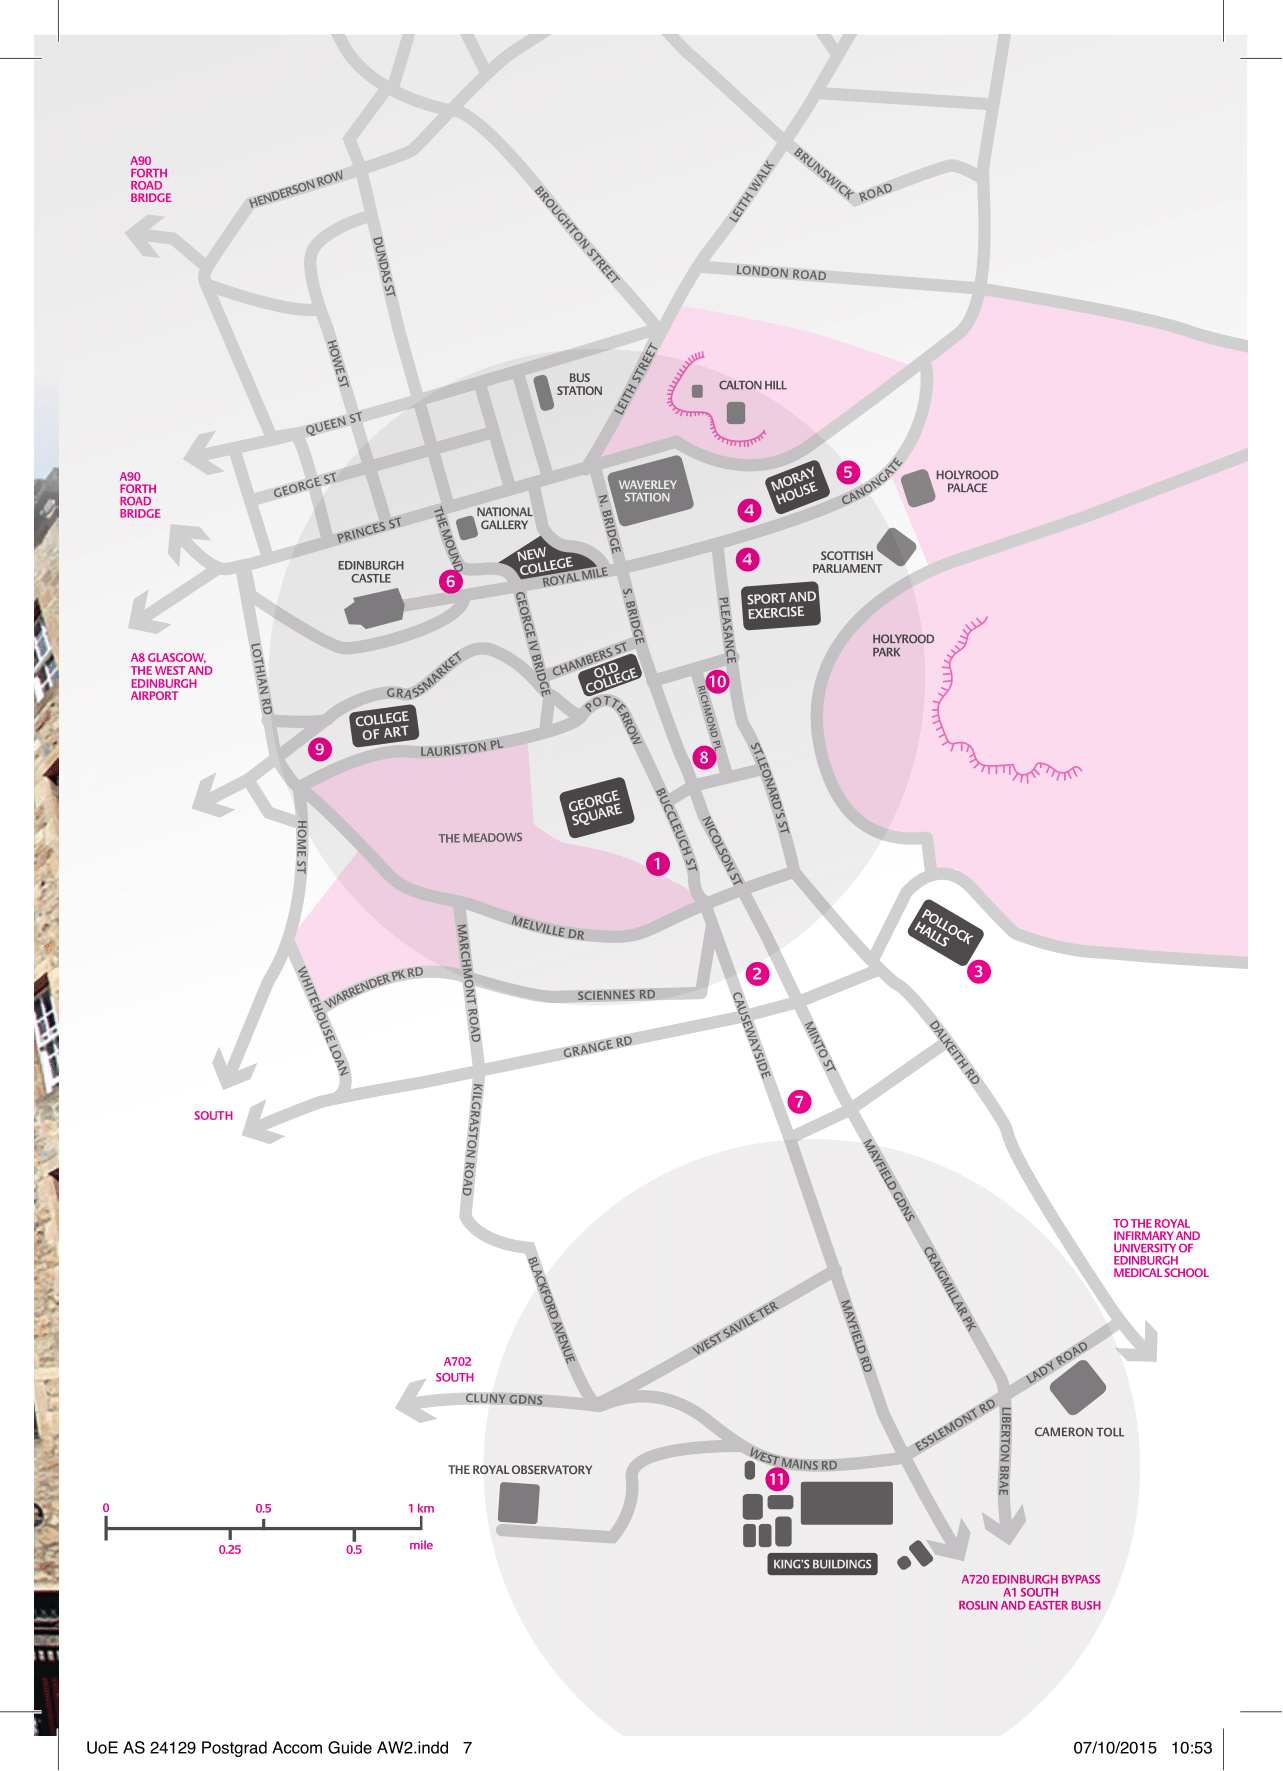
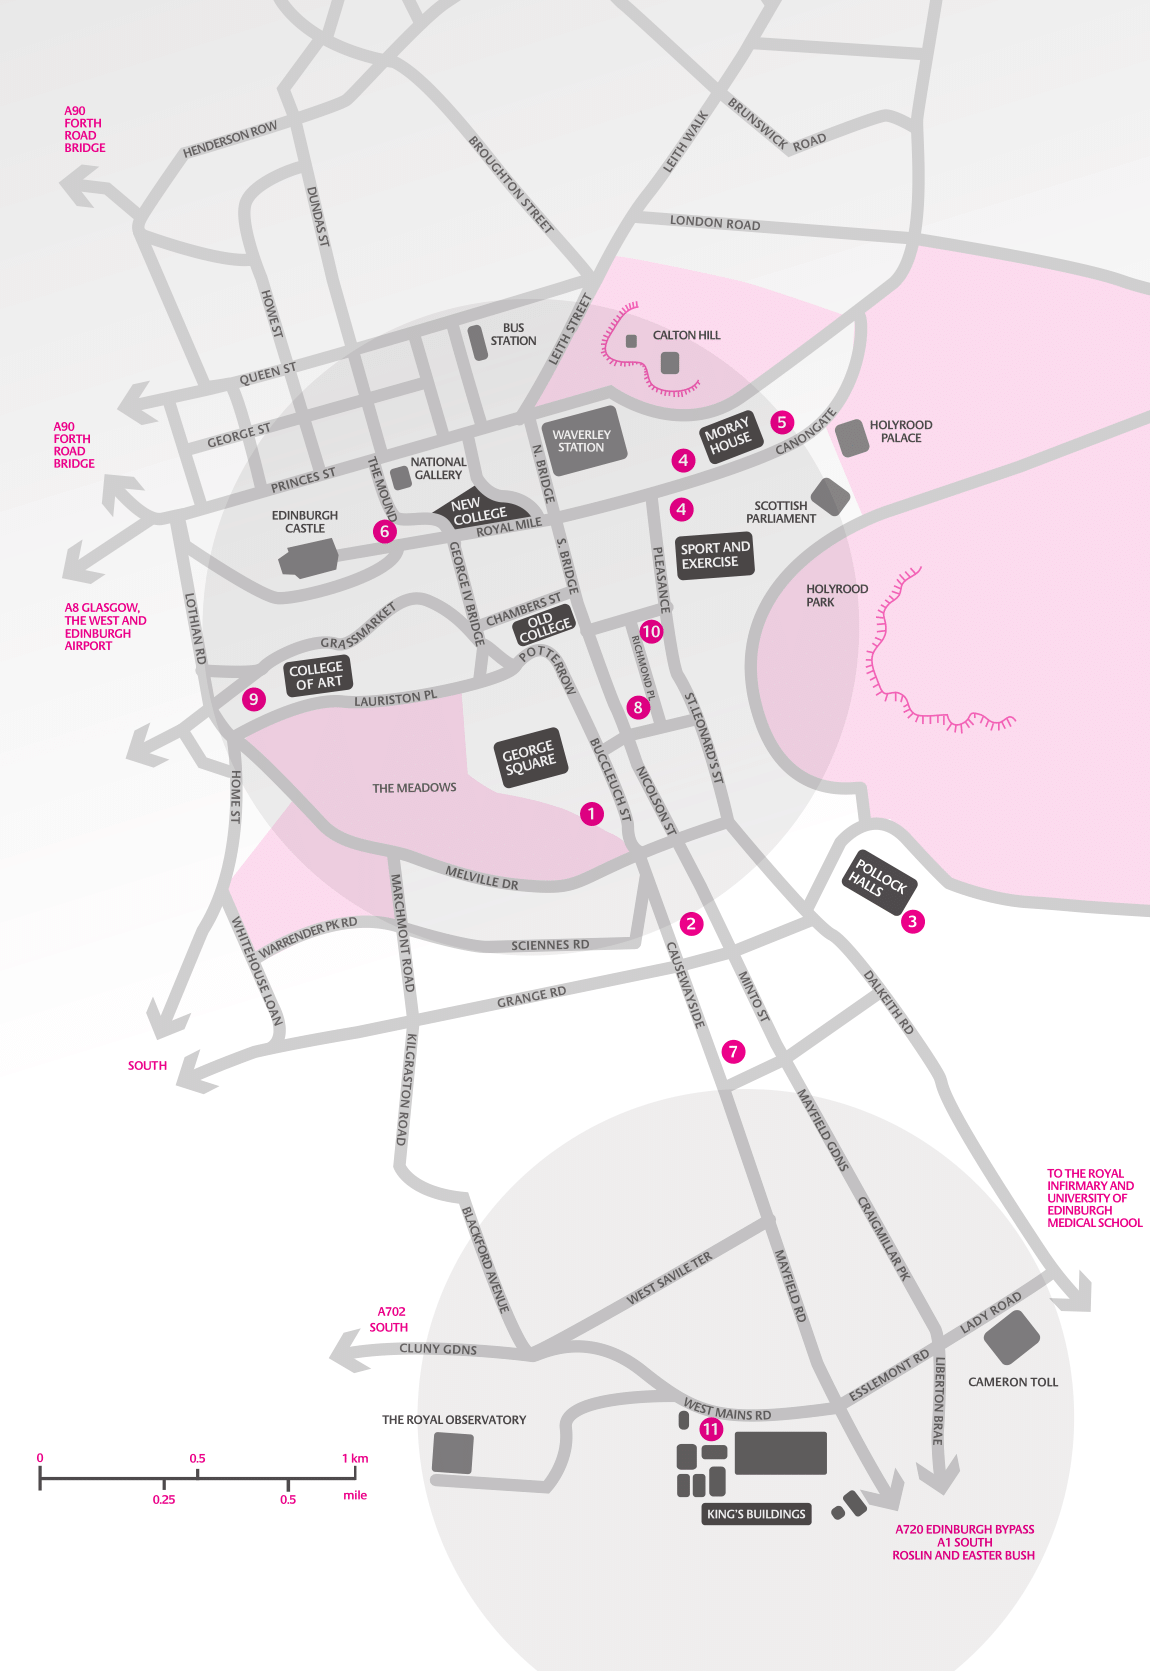
Continue implementation University Halls

diff --git a/index.html b/index.html
@@ -31,8 +31,7 @@
         <div class="wrapper">
             <div class="titles">
                 <h2>The University of Edinburgh</h2>
-                <h1>Accommodation</h1>    
-            </div>
+                <h1>Accommodation</h1> </div>
             <div class="primary_tiles">
                 <a href="#university_halls" class="tile"> <img class="tile_image" src="images/tile_university_halls.jpg" alt="University halls">
                     <div class="tile_title_container">
@@ -76,87 +75,162 @@
             <!--
             Undergraduates
             -->
-            <h3>Undergraduates</h3>
-            <p>University of Edinburgh offers a variety of options for undergraduate students. <a href="">Read full undergraduate guide here.</a></p>
-            <h4>Room guarantee</h4>
-            <ul>
-                <li>For Freshers</li>
+            <div class="undergraduates">
+                <h3>Undergraduate students</h3>
+                <p>University of Edinburgh offers a variety of options for undergraduate students. <a href="">Read full undergraduate guide here.</a></p>
+                <h4>Room guarantee</h4>
                 <ul>
-                    <li>The University of Edinburgh is your first choice and you are not applying to the Univeristy on a Conditional Insurance basis</li>
-                    <li>Application is recieved by 16 August</li>
-                    <li>Your normally reside outside of Edinburgh</li>
-                    <li>You are studying at the University of Edinburgh for the whole academic year starting in September</li>
+                    <li>For Freshers</li>
+                    <ul>
+                        <li>The University of Edinburgh is your first choice and you are not applying to the Univeristy on a Conditional Insurance basis</li>
+                        <li>Application is recieved by 16 August</li>
+                        <li>Your normally reside outside of Edinburgh</li>
+                        <li>You are studying at the University of Edinburgh for the whole academic year starting in September</li>
+                    </ul>
+                    <li>Conditional Insurance students with another university as their No1 choice</li>
+                    <ul>
+                        <li>Guarantee is only for shared accommodation(often with bunk beds)</li>
+                        <li>Must still apply for accommodation</li>
+                    </ul>
+                    <li>Visiting undergraduates</li>
+                    <ul>
+                        <li>Application is received by 16 August</li>
+                        <li>Accepted by 30 August an unconditional offer</li>
+                    </ul>
+                    <li>A room is <strong>not guaranteed for couples and families</strong></li>
                 </ul>
-                <li>Conditional Insurance students with another university as their No1 choice</li>
                 <ul>
-                    <li>Guarantee is only for shared accommodation(often with bunk beds)</li>
-                    <li>Must still apply for accommodation</li>
+                    <ul>
+                        <li>Limited supply of suitable accommodation</li>
+                        <li>Allocated on a first-come first-served basis</li>
+                    </ul>
                 </ul>
-                <li>Visiting undergraduates</li>
+                <h4>Anticipated rents</h4>
                 <ul>
-                    <li>Application is received by 16 August</li>
-                    <li>Accepted by 30 August an unconditional offer</li>
+                    <li>Catered</li>
+                    <ul>
+                        <li>From £6,242 to £8,411 for a 37-week lease</li>
+                        <li>Options for shared rooms are available from £4,693 to £5,301</li>
+                    </ul>
+                    <li>Self-catered</li>
+                    <ul>
+                        <li>From £3,427 to £6,064 for a 38-week lease</li>
+                        <li>Some options for twin rooms are available from £2,324.</li>
+                    </ul>
+                    <li>Rents include</li>
+                    <ul>
+                        <li>utility bills</li>
+                        <li>Personal contents insurance</li>
+                        <li>Data network</li>
+                        <li>Facilities and support from the Residence Life team</li>
+                        <li>Cleaning and housekeeping varies according to the location, but usually includes all common areas, staircases etc.</li>
+                    </ul>
                 </ul>
-            <li>A room is <strong>not guaranteed for couples and families</strong></li>
-            </ul>
-            <ul>
-                <ul>
-                    <li>Limited supply of suitable accommodation</li>
-                    <li>Allocated on a first-come first-served basis</li>
-                </ul>
-            </ul>
-            <h4>Anticipated rents</h4>
-            <ul>
-                <li>Catered</li>
-                <ul>
-                    <li>From £6,242 to £8,411 for a 37-week lease</li>
-                    <li>Options for shared rooms are available from £4,693 to £5,301</li>
-                </ul>
-                <li>Self-catered</li>
-                <ul>
-                    <li>From £3,427 to £6,064 for a 38-week lease</li>
-                    <li>Some options for twin rooms are available from £2,324.</li>
-                </ul>
-                <li>Rents include</li>
-                <ul>
-                    <li>utility bills</li>
-                    <li>Personal contents insurance</li>
-                    <li>Data network</li>
-                    <li>Facilities and support from the Residence Life team</li>
-                    <li>Cleaning and housekeeping varies according to the location, but usually includes all common areas, staircases etc.</li>
-                </ul>
-            </ul>
-            <h4>Locations</h4> <img src="images/undergrad-accomm-map.png" alt="Undergraduate accommodation map">
+                <h4>Locations</h4>
+                <div class="map_locations"> <img class="map" src="images/undergrad-accomm-map.png" alt="Undergraduate accommodation map">
+                    <ul class="legend">
+                        <li>
+                            <div class="legend_number">1</div>Ascham Court</li>
+                        <li>
+                            <div class="legend_number">2</div>Blackwood Crescent/Causewayside</li>
+                        <li>
+                            <div class="legend_number">3</div>Holland Annexe</li>
+                        <li>
+                            <div class="legend_number">4</div>Holyrood</li>
+                        <li>
+                            <div class="legend_number">5</div>Morgan Court</li>
+                        <li>
+                            <div class="legend_number">6</div>Mylnes Court</li>
+                        <li>
+                            <div class="legend_number">7</div>Ratcliffe Terrace</li>
+                        <li>
+                            <div class="legend_number">8</div>Richmond Place</li>
+                        <li>
+                            <div class="legend_number">9</div>Riego Street</li>
+                        <li>
+                            <div class="legend_number">10</div>Roxburgh Place</li>
+                        <li>
+                            <div class="legend_number">11</div>West Mains Road</li>
+                    </ul>
+                </div>
+            </div>
             <!--
             Postgraduates
             -->
-            <h3>Postgraduates</h3>
-            <p>University of Edinburgh offers a variety of options for postgraduate students. <a href="">Read full postgraduate guide here.</a></p>
-            <h4>Accommodation guarantee</h4>
-            <ul>
-                <li>Taught postgrads within the EU (including UK)</li>
+            <div class="postgraduates">
+                <h3>Postgraduate students</h3>
+                <p>University of Edinburgh offers a variety of options for postgraduate students. <a href="">Read full postgraduate guide here.</a></p>
+                <h4>Accommodation guarantee</h4>
                 <ul>
-                    <li><strong>Not currently guaranteed</strong></li>
-                    <li>encouraged to apply anyway</li>
+                    <li>Taught postgrads within the EU (including UK)</li>
+                    <ul>
+                        <li><strong>Not currently guaranteed</strong></li>
+                        <li>encouraged to apply anyway</li>
+                    </ul>
+                    <li>Guaranteed</li>
+                    <ul>
+                        <li>all new single postgraduate research (typically PhD) students, whether from the UK, EU or International</li>
+                        <li>all new single postgraduate taught students from outside the EU only</li>
+                        <li>cannot guarantee to provide everyone with precisely the type of accommodation they would wish.</li>
+                        <li>application is received by 31 July 2016;</li>
+                        <li>unconditional offer, which you must have firmly accepted, to study at the University by 31 July 2016;</li>
+                        <li>will be studying in Edinburgh for the whole of the academic year starting in September</li>
+                        <li>contracts from September to September.</li>
+                    </ul>
+                    <li>Applications for accommodation are currently expected to open from early February</li>
+                    <li>Offers of accommodation will normally be made from May</li>
                 </ul>
-                <li>Guaranteed</li>
+                <h4>Anticipated rents</h4>
                 <ul>
-                    <li>all new single postgraduate research (typically PhD) students, whether from the UK, EU or International</li>
-                    <li>all new single postgraduate taught students from outside the EU only</li>
-                    <li>cannot guarantee to provide everyone with precisely the type of accommodation they would wish.</li>
-                    <li>application is received by 31 July 2016;</li>
-                    <li>unconditional offer, which you must have firmly accepted, to study at the University by 31 July 2016;</li>
-                    <li>will be studying in Edinburgh for the whole of the academic year starting in September</li>
-                    <li>contracts from September to September.</li>
+                    <li>Weekly rents below relate to single rooms in self-catered flats between £83 – £166 per week (51 week lease)</li>
+                    <li>University accommodation rents include all utility bills; personal contents insurance; internet facilities and support from the Residence Life team. Cleaning and housekeeping varies according to the location and type of accommodation offered but usually includes all common areas, staircases etc. within our premises.</li>
                 </ul>
-                <li>Applications for accommodation are currently expected to open from early February</li>
-                <li>Offers of accommodation will normally be made from May</li>
-            </ul>
-            <h4>Anticipated rents</h4>
-            <ul>
-                <li>Weekly rents below relate to single rooms in self-catered flats between £83 – £166 per week (51 week lease)</li>
-                <li>University accommodation rents include all utility bills; personal contents insurance; internet facilities and support from the Residence Life team. Cleaning and housekeeping varies according to the location and type of accommodation offered but usually includes all common areas, staircases etc. within our premises.</li>
-            </ul>
+                <h4>Locations</h4>
+                <div class="map_locations"> <img class="map" src="images/postgrad-accomm-map.png" alt="Postgraduate accommodation map">
+                    <ul class="legend">
+                        <li>
+                            <div class="legend_number">1</div>Blackfriars Street</li>
+                        <li>
+                            <div class="legend_number">2</div>College Wynd</li>
+                        <li>
+                            <div class="legend_number">3</div>Darroch Court</li>
+                        <li>
+                            <div class="legend_number">4</div>David Horn</li>
+                        <li>
+                            <div class="legend_number">5</div>Deaconess House</li>
+                        <li>
+                            <div class="legend_number">6</div>East Newington Place</li>
+                        <li>
+                            <div class="legend_number">7</div>Fraser Court</li>
+                        <li>
+                            <div class="legend_number">8</div>Hermit’s Croft</li>
+                        <li>
+                            <div class="legend_number">9</div>Kincaid’s Court</li>
+                        <li>
+                            <div class="legend_number">10</div>Kitchener</li>
+                        <li>
+                            <div class="legend_number">11</div>Murano Place</li>
+                        <li>
+                            <div class="legend_number">12</div>New Arthur Place</li>
+                        <li>
+                            <div class="legend_number">13</div>Pollock Halls</li>
+                        <li>
+                            <div class="legend_number">14</div>Riego</li>
+                        <li>
+                            <div class="legend_number">15</div>Robertson’s Close</li>
+                        <li>
+                            <div class="legend_number">16</div>Sciennes</li>
+                        <li>
+                            <div class="legend_number">17</div>Shrubhill</li>
+                        <li>
+                            <div class="legend_number">18</div>South Clerk Street</li>
+                        <li>
+                            <div class="legend_number">19</div>Warrender Park Crescent</li>
+                        <li>
+                            <div class="legend_number">20</div>Warrender Park Road</li>
+                    </ul>
+                </div>
+            </div>
         </div>
     </div>
     <!--

diff --git a/style.css b/style.css
@@ -301,3 +301,36 @@ Filler container
 */
 
 #university_halls {}
+
+.map_locations {
+    display: table;
+}
+
+.map {
+    display: inline-block;
+    height: 700px;
+    float: left;
+}
+
+.legend {
+    display: inline-block;
+    float: right;
+    margin-left: 20px;
+    list-style-type: none;
+}
+
+.legend_number {
+    display: inline-block;
+    margin-right: 10px;
+    margin-bottom: 5px;
+    width: 30px;
+    height: 30px;
+    border-radius: 100%;
+    background-color: #00de00;
+    color: white;
+    text-align: center;
+}
+
+.postgraduates .legend_number {
+    background-color: #ff00b1;
+}
